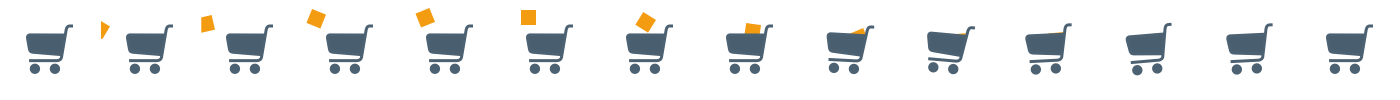
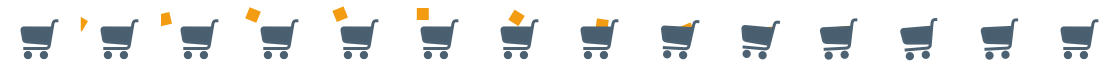
Update styles on cart

diff --git a/src/modules/dashboard/cart-resume/styles.css b/src/modules/dashboard/cart-resume/styles.css
@@ -1,7 +1,7 @@
 .container {
   float: right;
-  margin-top: 3px;
-  margin-right: 3px;
+  margin-top: 9px;
+  margin-right: 9px;
   position: relative;
 }
 
@@ -9,9 +9,9 @@
 
 .cart {
   cursor: pointer;
-  width: 50px;
-  height: 50px;
-  background-size: 700px 50px;
+  width: 40px;
+  height: 40px;
+  background-size: 560px 40px;
 }
 
 .cart.addItem {
@@ -31,16 +31,23 @@
 }
 
 .counter {
+  align-items: center;
   background-color: #ff5a00;
-  border-radius: 3px;
+  border-radius: 50%;
   color: white;
+  display: flex;
   font-size: .75em;
-  padding: 1px 4px;
+  height: 18px;
+  justify-content: center;
+  overflow: hidden;
   position: absolute;
-  right: -1px;
-  top: 4px;
+  right: -7px;
+  top: -1px;
   user-select: none;
+  width: 18px;
 }
+
+.counter span { font-size: 11px; }
 
 @media screen and (max-width: 480px) {
   .container {

diff --git a/src/modules/dashboard/cart-resume/index.jsx b/src/modules/dashboard/cart-resume/index.jsx
@@ -37,7 +37,7 @@ class CartResume extends Component {
       >
         <div className={className} style={{ backgroundImage: `url(${this.props.context}/images/shopping-cart.png)` }} />
         <div className={styles.counter}>
-          { this.props.count }
+          <span>{ this.props.count }</span>
         </div>
       </div>
     );

diff --git a/src/components/domain-search/styles.css b/src/components/domain-search/styles.css
@@ -41,7 +41,7 @@
 }
 
 .button {
-  background-color: #ff5a00;
+  background-color: #f39c12;
   border-bottom-right-radius: 23px;
   border-top-right-radius: 23px;
   border: 0;
@@ -54,7 +54,7 @@
 }
 
 .button:hover {
-  background-color: #ff792f;
+  background-color: #f3ae40;
 }
 
 .button.isLoading {

diff --git a/src/modules/dashboard/settings/styles.css b/src/modules/dashboard/settings/styles.css
@@ -1,5 +1,4 @@
 .container {
-  border-left: 1px solid #e7eaec;
   cursor: pointer;
   float: right;
   padding-left: 24px;
